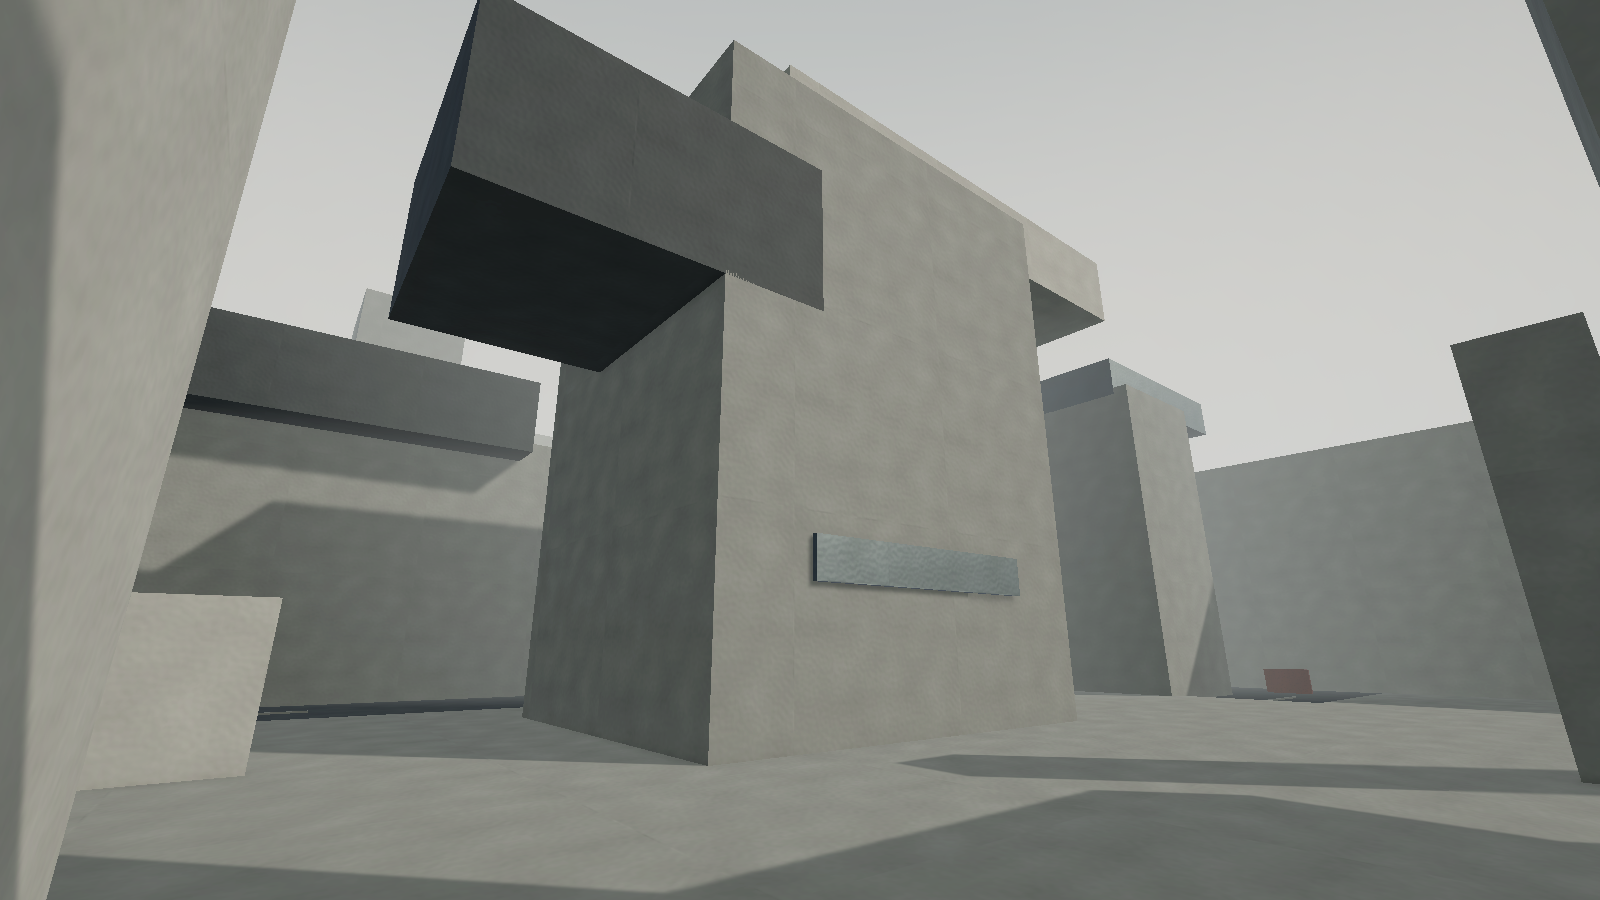
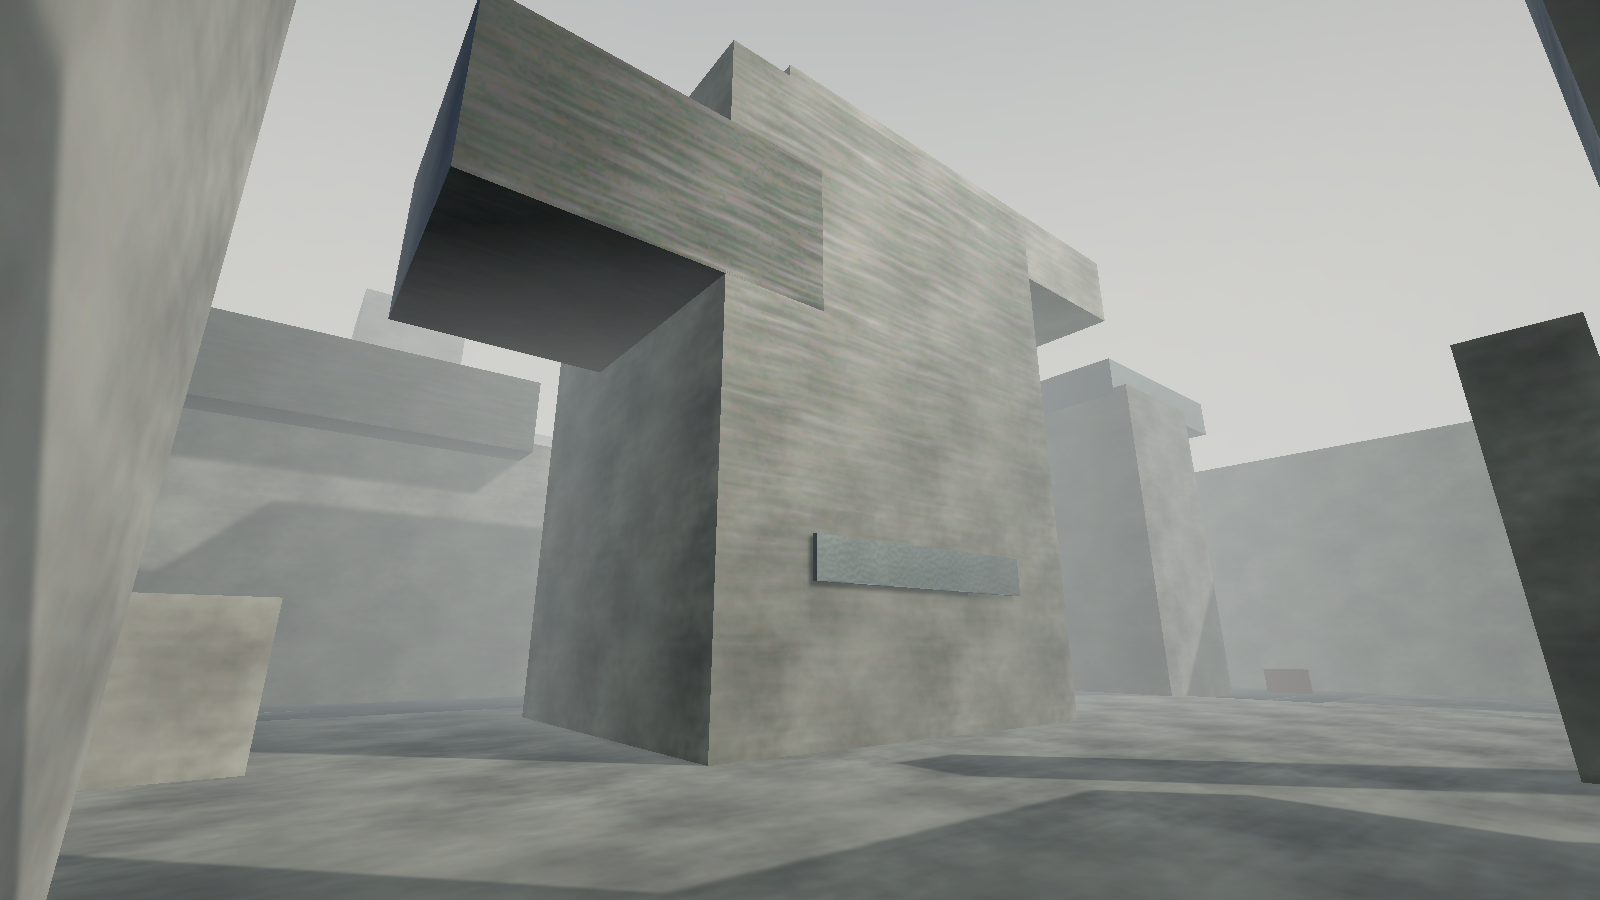
Refine concrete Perlin maps and deepen scene fog

diff --git a/Assets/MVP01/Editor/MVP01Builder.cs b/Assets/MVP01/Editor/MVP01Builder.cs
@@ -146,9 +146,9 @@ public static class MVP01Builder
         RenderSettings.reflectionIntensity = 0.8f;
         RenderSettings.fog = true;
         RenderSettings.fogMode = FogMode.Linear;
-        RenderSettings.fogColor = new Color(0.85f, 0.88f, 0.87f);
-        RenderSettings.fogStartDistance = 20f;
-        RenderSettings.fogEndDistance = 72f;
+        RenderSettings.fogColor = new Color(0.89f, 0.92f, 0.91f);
+        RenderSettings.fogStartDistance = 10f;
+        RenderSettings.fogEndDistance = 56f;
 
         AddReflectionProbe("Courtyard reflection", V(0, 5, 15), V(42, 20, 40), lighting.transform);
         AddReflectionProbe("Passage reflection", V(0, 3, -18), V(16, 12, 30), lighting.transform);
@@ -211,8 +211,13 @@ public static class MVP01Builder
         AssetDatabase.SaveAssets();
         if (!previousDirty) EditorSceneManager.OpenScene(ScenePath, OpenSceneMode.Single);
 
-        Camera previewCamera = GameObject.Find("Main Camera")?.GetComponent<Camera>();
-        if (previewCamera != null) CapturePreviews(previewCamera);
+        // Let the freshly opened scene and URP finish a frame before reading the render target.
+        EditorApplication.delayCall += () =>
+        {
+            if (EditorSceneManager.GetActiveScene().path != ScenePath) return;
+            Camera previewCamera = GameObject.Find("Main Camera")?.GetComponent<Camera>();
+            if (previewCamera != null) CapturePreviews(previewCamera);
+        };
         Debug.Log($"MVP01 built: {boxCount} textured boxes, 2 reflection probes, first-person player. Scene: {ScenePath}");
     }
 
@@ -323,13 +328,18 @@ public static class MVP01Builder
         }
         material.SetColor("_BaseColor", tint);
         material.SetTexture("_BaseMap", Texture(textureName, "base", false));
-        material.SetTexture("_MetallicGlossMap", Texture(textureName, "mask", true));
+        bool concreteSurface = textureName == "concrete";
+        material.SetFloat("_WorkflowMode", concreteSurface ? 0f : 1f);
+        material.SetTexture("_MetallicGlossMap", concreteSurface ? null : Texture(textureName, "mask", true));
+        material.SetTexture("_SpecGlossMap", concreteSurface ? Texture(textureName, "spec", true) : null);
         material.SetTexture("_OcclusionMap", Texture(textureName, "mask", true));
         material.SetTexture("_BumpMap", Texture(textureName, "normal", true));
         material.SetFloat("_Metallic", metallic);
-        material.SetFloat("_Smoothness", smoothness);
-        material.SetFloat("_BumpScale", textureName == "concrete" ? 0.33f : 0.20f);
+        material.SetFloat("_Smoothness", concreteSurface ? 0.68f : smoothness);
+        material.SetFloat("_BumpScale", concreteSurface ? 0.46f : 0.20f);
         material.SetFloat("_OcclusionStrength", 0.65f);
+        if (concreteSurface) material.EnableKeyword("_SPECULAR_SETUP");
+        else material.DisableKeyword("_SPECULAR_SETUP");
         material.EnableKeyword("_METALLICSPECGLOSSMAP");
         material.EnableKeyword("_OCCLUSIONMAP");
         material.EnableKeyword("_NORMALMAP");
@@ -366,14 +376,37 @@ public static class MVP01Builder
     {
         const int resolution = 256;
         float[,] height = new float[resolution, resolution];
+        float[,] largeScale = new float[resolution, resolution];
+        float[,] directional = new float[resolution, resolution];
         int seed = surface == "concrete" ? 13 : surface == "steel" ? 47 : 71;
         for (int y = 0; y < resolution; y++)
         for (int x = 0; x < resolution; x++)
         {
+            if (surface == "concrete")
+            {
+                float u = x / (resolution - 1f);
+                float v = y / (resolution - 1f);
+                float warpU = (SeamlessPerlin(u, v, 2f, 2f, seed + 9) - 0.5f) * 0.055f;
+                float warpV = (SeamlessPerlin(u, v, 2f, 2f, seed + 23) - 0.5f) * 0.055f;
+                u = Mathf.Repeat(u + warpU, 1f);
+                v = Mathf.Repeat(v + warpV, 1f);
+
+                // Four tileable Perlin octaves: large cement clouds, aggregate, grain, and pores.
+                float macro = SeamlessPerlin(u, v, 2f, 2f, seed + 31);
+                float aggregate = SeamlessPerlin(u, v, 5f, 6f, seed + 61);
+                float grain = SeamlessPerlin(u, v, 16f, 19f, seed + 97);
+                float pores = SeamlessPerlin(u, v, 42f, 43f, seed + 131);
+                float stria = 0.68f * SeamlessPerlin(u, v, 2f, 26f, seed + 157)
+                    + 0.32f * SeamlessPerlin(u, v, 5f, 53f, seed + 181);
+                largeScale[x, y] = macro;
+                directional[x, y] = stria;
+                height[x, y] = Mathf.Clamp01(0.43f * macro + 0.27f * aggregate
+                    + 0.17f * grain + 0.06f * pores + 0.07f * stria);
+                continue;
+            }
             float broad = Mathf.PerlinNoise((x + seed) * 0.025f, (y + seed) * 0.025f);
             float fine = Mathf.PerlinNoise((x + seed * 3) * 0.19f, (y + seed * 3) * 0.19f);
-            float board = surface == "concrete" ? Mathf.Sin(y * 0.18f + broad * 3f) * 0.035f : 0f;
-            height[x, y] = Mathf.Clamp01(broad * 0.67f + fine * 0.25f + board);
+            height[x, y] = Mathf.Clamp01(broad * 0.67f + fine * 0.25f);
         }
 
         Texture2D texture = new Texture2D(resolution, resolution, TextureFormat.RGBA32, true, kind != "base");
@@ -382,26 +415,44 @@ public static class MVP01Builder
         for (int x = 0; x < resolution; x++)
         {
             float h = height[x, y];
+            float macro = largeScale[x, y];
+            float stria = directional[x, y];
             float fleck = Mathf.PerlinNoise((x + seed) * 0.53f, (y - seed) * 0.53f);
             Color color;
-            if (kind == "base")
+            if (surface == "concrete" && kind == "base")
             {
-                float value = surface == "concrete" ? 0.88f + (h - 0.5f) * 0.10f : 0.90f + (h - 0.5f) * 0.10f;
+                float value = Mathf.Clamp01(0.81f + (h - 0.48f) * 0.72f + (macro - 0.5f) * 0.13f);
+                float warmth = (macro - 0.5f) * 0.025f;
+                color = new Color(value + warmth, value + warmth * 0.2f, value - warmth, 1f);
+            }
+            else if (surface == "concrete" && kind == "spec")
+            {
+                // Directional Perlin changes specular F0 and smoothness along formwork grain.
+                float specular = Mathf.Clamp(0.048f + (stria - 0.5f) * 0.055f, 0.025f, 0.075f);
+                float gloss = Mathf.Clamp01(0.62f + (stria - 0.5f) * 0.30f + (macro - 0.5f) * 0.10f);
+                color = new Color(specular, specular * 0.99f, specular * 0.96f, gloss);
+            }
+            else if (kind == "base")
+            {
+                float value = 0.90f + (h - 0.5f) * 0.10f;
                 if (surface == "paint") value *= fleck > 0.79f ? 0.69f : 1f;
                 color = new Color(value, value, value, 1);
             }
             else if (kind == "mask")
             {
                 float metal = surface == "concrete" ? 0.0f : surface == "paint" ? (fleck > 0.79f ? 0.9f : 0.08f) : 0.90f;
-                float ao = Mathf.Lerp(0.84f, 1f, h);
-                float gloss = surface == "concrete" ? 0.72f + h * 0.12f : 0.76f + h * 0.16f;
-                color = new Color(metal, ao, 0f, gloss);
+                float ao = surface == "concrete" ? Mathf.Lerp(0.77f, 1f, h) : Mathf.Lerp(0.84f, 1f, h);
+                float gloss = 0.76f + h * 0.16f;
+                color = new Color(metal, ao, surface == "concrete" ? stria : 0f, gloss);
             }
             else
             {
                 float dx = height[(x + 1) % resolution, y] - height[(x + resolution - 1) % resolution, y];
                 float dy = height[x, (y + 1) % resolution] - height[x, (y + resolution - 1) % resolution];
-                Vector3 n = new Vector3(-dx * 1.3f, -dy * 1.3f, 1f).normalized;
+                float striaDy = surface == "concrete"
+                    ? directional[x, (y + 1) % resolution] - directional[x, (y + resolution - 1) % resolution]
+                    : 0f;
+                Vector3 n = new Vector3(-dx * 1.3f, -(dy + striaDy * 0.22f) * 1.3f, 1f).normalized;
                 color = new Color(n.x * 0.5f + 0.5f, n.y * 0.5f + 0.5f, n.z * 0.5f + 0.5f, 1f);
             }
             pixels[y * resolution + x] = color;
@@ -411,6 +462,17 @@ public static class MVP01Builder
         File.WriteAllBytes(path, texture.EncodeToPNG());
         UnityEngine.Object.DestroyImmediate(texture);
         AssetDatabase.ImportAsset(path, ImportAssetOptions.ForceSynchronousImport);
+    }
+
+    private static float SeamlessPerlin(float u, float v, float scaleU, float scaleV, int seed)
+    {
+        float offsetU = seed * 0.173f;
+        float offsetV = seed * 0.311f;
+        float a = Mathf.PerlinNoise(offsetU + u * scaleU, offsetV + v * scaleV);
+        float b = Mathf.PerlinNoise(offsetU + (u - 1f) * scaleU, offsetV + v * scaleV);
+        float c = Mathf.PerlinNoise(offsetU + u * scaleU, offsetV + (v - 1f) * scaleV);
+        float d = Mathf.PerlinNoise(offsetU + (u - 1f) * scaleU, offsetV + (v - 1f) * scaleV);
+        return Mathf.Lerp(Mathf.Lerp(a, b, u), Mathf.Lerp(c, d, u), v);
     }
 
     private static void AddReflectionProbe(string name, Vector3 position, Vector3 size, Transform parent)

diff --git a/Assets/MVP01/README.md b/Assets/MVP01/README.md
@@ -2,6 +2,6 @@
 
 Open `Scenes/MVP01_BrutalistWalk.unity` and press Play. Click the Game view to capture the mouse; press Escape to release it. Move with WASD or arrow keys, hold Shift to move faster, and look with the mouse.
 
-The scene is a 74-box first-person visual test: a compressed entrance, column field, open courtyard, central cantilevered monolith, and side return route. All geometry uses cube meshes with face UVs measured in world units. Concrete, steel, and oxide materials use URP/Lit with procedural albedo, normal, metallic/smoothness, and occlusion textures. A custom skybox shader draws layered warm and cool whites; linear distance fog matches its horizon.
+The scene is a 74-box first-person visual test: a compressed entrance, column field, open courtyard, central cantilevered monolith, and side return route. All geometry uses cube meshes with face UVs measured in world units. Concrete base color is built from four tileable Perlin noise octaves. Directionally stretched Perlin noise drives its specular/smoothness map and fine normal grooves through URP/Lit's specular workflow. Steel and oxide retain metallic PBR maps. A custom skybox shader draws layered warm and cool whites; stronger linear distance fog matches its horizon.
 
 Use **MVP01 > Build Brutalist Walk** in the Unity Editor to regenerate the scene and the three PNGs in the project's `Previews` directory. Use **MVP01 > Capture Preview** to refresh only the PNGs.
